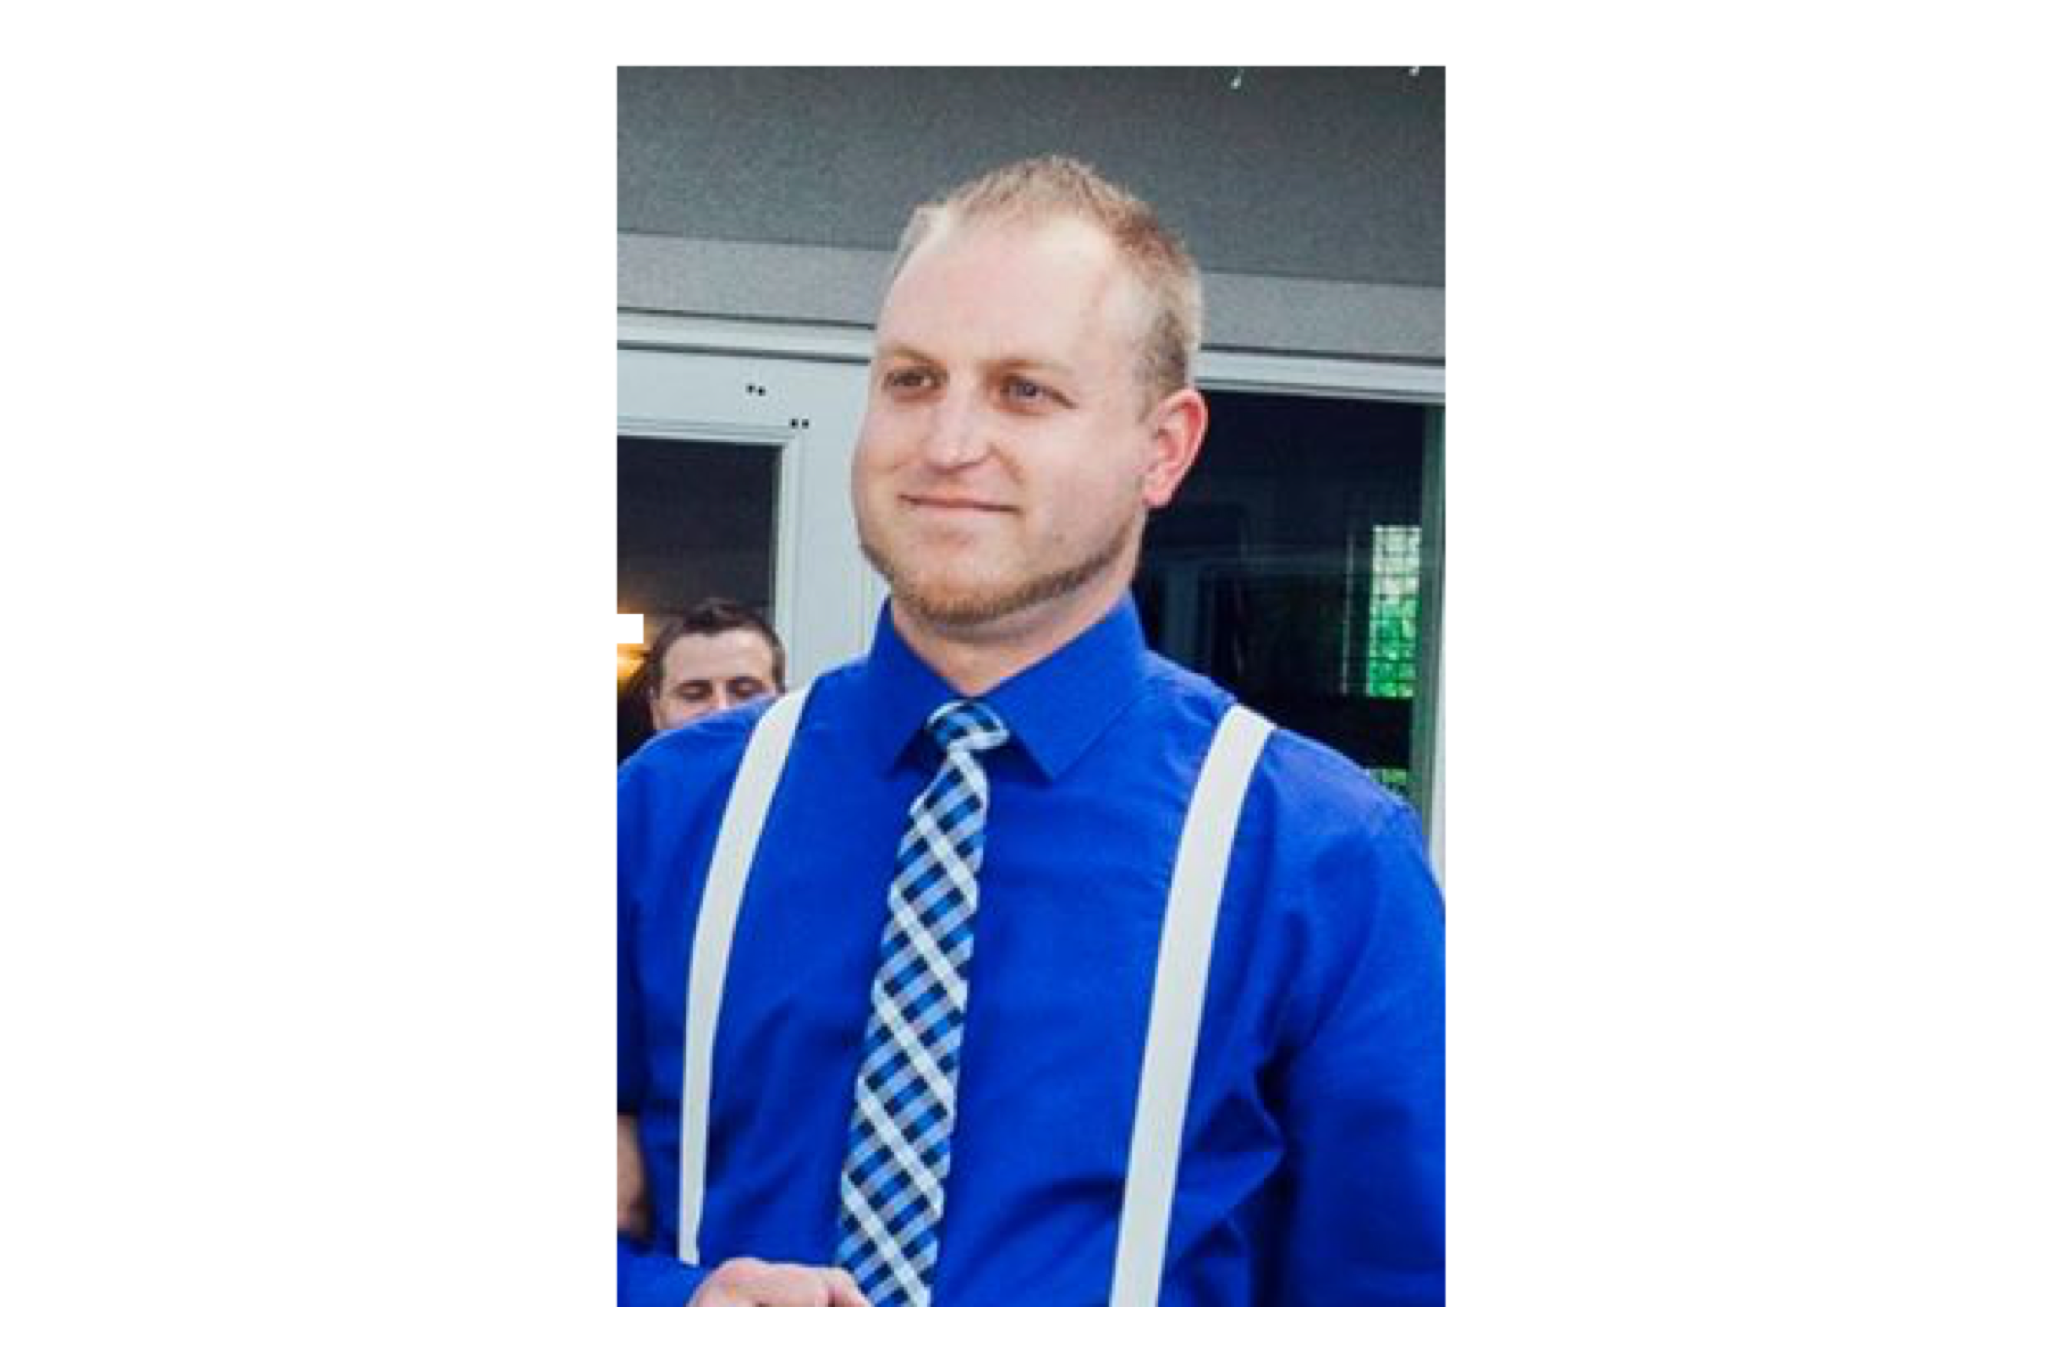
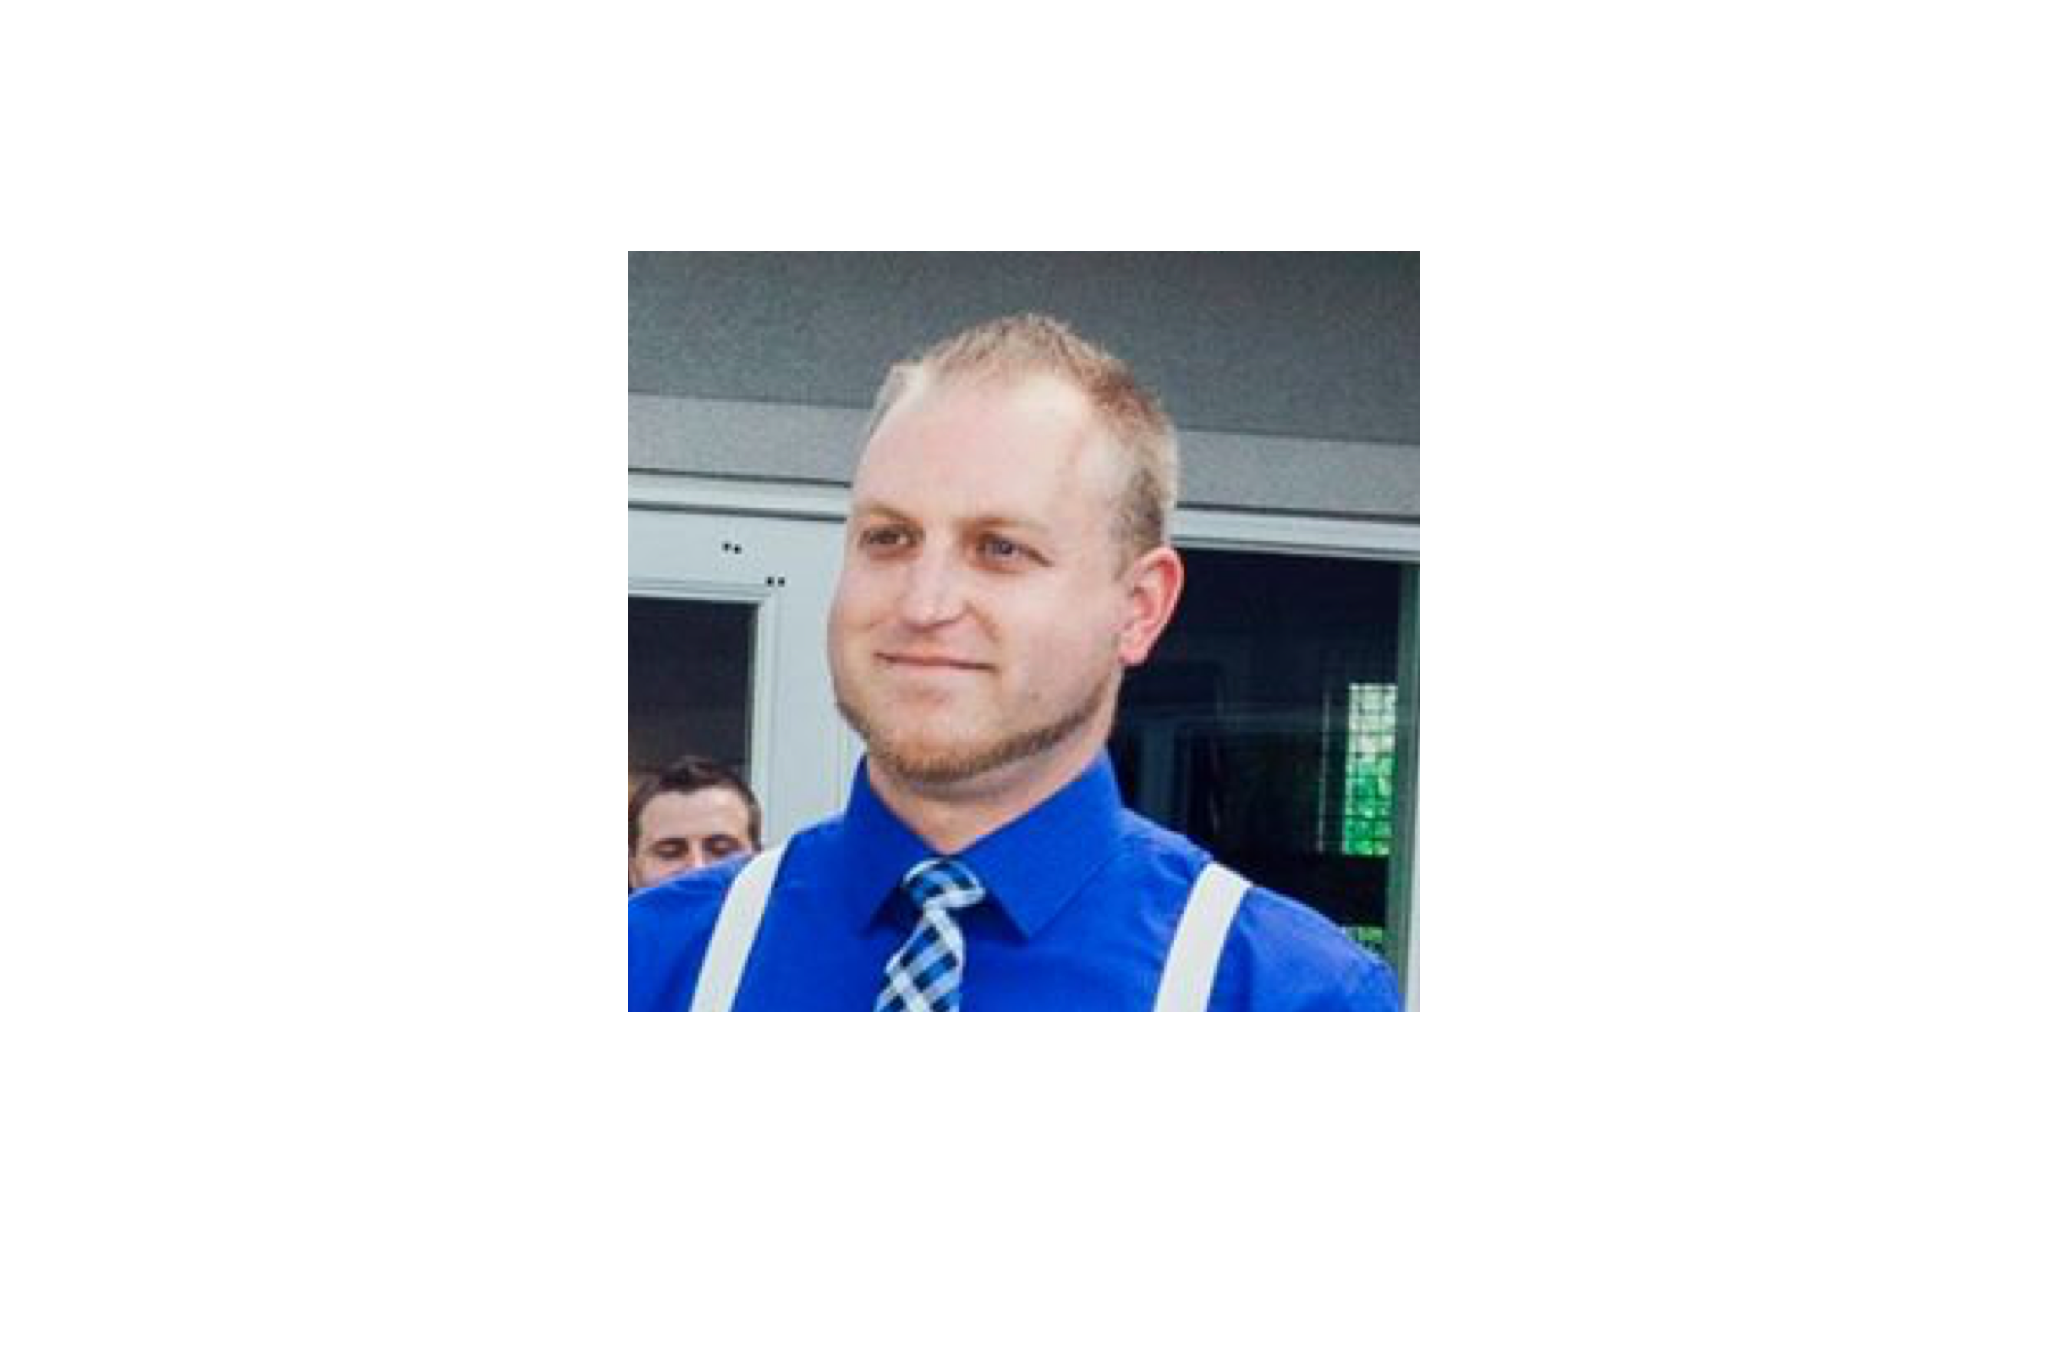
created build and deployed on firebase, styled footer, removed image until responsiveness is fixed

diff --git a/my-portfolio/src/components/Filter.js b/my-portfolio/src/components/Filter.js
@@ -1,5 +1,6 @@
 import React, { Component } from 'react';
 import store from '../store';
+import { Link } from 'react-router-dom';
 
 
 
@@ -16,24 +17,24 @@ class Filter extends Component {
     render() {
         return (
             <div className="ui secondary pointing menu filter">
-                <a className="item" onClick={this.handleClick}>
+                <Link to="" className="item" onClick={this.handleClick}>
                     All
-                </a>
-                <a className="item" onClick={this.handleClick}>
+                </Link>
+                <Link to="" className="item" onClick={this.handleClick}>
                     HTML
-                </a>
-                <a className="item" onClick={this.handleClick}>
+                </Link>
+                <Link to="" className="item" onClick={this.handleClick}>
                     JavaScript
-                </a>
-                <a className="item" onClick={this.handleClick}>
+                </Link>
+                <Link to="" className="item" onClick={this.handleClick}>
                     NodeJS
-                </a>
-                <a className="item" onClick={this.handleClick}>
+                </Link>
+                <Link to="" className="item" onClick={this.handleClick}>
                     ReactJS
-                </a>
-                <a className="item" onClick={this.handleClick}>
+                </Link>
+                <Link to="" className="item" onClick={this.handleClick}>
                     Angular
-                </a>
+                </Link>
             </div>
         );
     }

diff --git a/my-portfolio/src/components/Contact.js b/my-portfolio/src/components/Contact.js
@@ -1,5 +1,4 @@
 import React, { Component } from 'react';
-import Footer from './Footer';
 
 class Contact extends Component {
     render() {
@@ -9,11 +8,10 @@ class Contact extends Component {
                 can reach me at any of the below sources...
                 </p>
                 <h3>Email</h3>
-                <a style={{display: "flex", flexDirection: "column", alignItems: "center"}} href="https://www.owen.steven.d@gmail.com">
+                <div style={{display: "flex", flexDirection: "column", alignItems: "center"}} href="">
                     <i style={{fontSize: "25px"}} className="google icon"/>
                     <span>owen.steven.d@gmail.com</span>
-                    <span>Click Here!</span>
-                </a>
+                </div>
                 <h3>LinkedIn</h3>
                 <a style={{display: "flex", flexDirection: "column", alignItems: "center"}} href="https://www.linkedin.com/in/steven-d-owen">
                     <i style={{fontSize: "25px"}} className="linkedin icon"/>
@@ -26,7 +24,6 @@ class Contact extends Component {
                     <span>https://github.com/stevendowen</span>
                     <span>Click Here!</span>
                 </a>
-                <Footer />
             </div>
         );
     }

diff --git a/my-portfolio/src/css/App.css b/my-portfolio/src/css/App.css
@@ -1,11 +1,5 @@
 html, body {
-    height: 100%;
-    position: relative;
-}
-
-#footer {
-    position: absolute;
-    bottom: -50%;
+    height: 0;
 }
 
 .ui.secondary.pointing.menu {
@@ -82,13 +76,18 @@ p {
     display: flex;
     justify-content: center;
     background-color: #E2E2E2;
-    width: 25%;
+    width: 30%;
     border-radius: 5px;
-    margin-bottom: 5%;
+    margin-bottom: 10%;
+}
+
+.container {
+    display: flex;
+    justify-content: center;
 }
 
 img {
-    width: 450px;
+    width: 700px;
 }
 
 .contactBox {
@@ -122,7 +121,10 @@ and (-webkit-min-device-pixel-ratio: 3) {
         font-size: 10px;
     }
     .imgBox {
-        width: 60%;
+        width: 90%;
+    }
+    img {
+        width: 100px;
     }
 }
 
@@ -139,7 +141,10 @@ and (orientation: portrait) {
         font-size: 10px;
     }
     .imgBox {
-        width: 60%;
+        width: 90%;
+    }
+    img {
+        width: 100px;
     }
 }
 
@@ -156,6 +161,9 @@ and (orientation: landscape) {
         font-size: 10px;
     }
     .imgBox {
-        width: 60%;
+        width: 90%;
+    }
+    img {
+        width: 100px;
     }
 }

diff --git a/my-portfolio/src/components/About.js b/my-portfolio/src/components/About.js
@@ -1,15 +1,15 @@
 import React, { Component } from 'react';
-import Me from '../images/me.png';
-import Footer from './Footer';
+// import Me from '../images/me.png';
+
 
 class About extends Component {
     render () {
         return (
             <div className="aboutBox">
                 <h1 className="name about">I'm Steven Owen</h1>
-                <div className="imgBox">
-                    <img src={Me} />
-                </div>
+                {/* <div className="imgBox">
+                    <img src={Me} alt="Steven Owen"/>
+                </div> */}
                 <p> 
                     I am a highly motivated Web Developer pursuing opportunity to further my career.
                     I am a recent graduate from Mountainland Tech College that was asked by start-up 
@@ -18,7 +18,6 @@ class About extends Component {
                     Associate Degree program and am committed to maintaining cutting edge technical skills 
                     and up-to-date industry knowledge.
                 </p>
-                <Footer />
             </div>
         );
     }

diff --git a/my-portfolio/src/components/Footer.js b/my-portfolio/src/components/Footer.js
@@ -2,7 +2,7 @@ import React from 'react';
 
 const Footer = () => {
     return (
-        <div id="footer" className="ui secondary bottom fixed menu">
+        <div className="ui secondary menu">
             <div style={{fontSize: "10px"}} className="right item">
                 <span style={{width: "100px"}}>Powered by Me using React, Redux, and Firestore</span>
             </div>

diff --git a/my-portfolio/src/components/AppList.js b/my-portfolio/src/components/AppList.js
@@ -10,7 +10,6 @@ class AppList extends Component {
     renderApps () {
         let apps = store.getState().apps;
         let filter = store.getState().filter;
-        console.log(filter);
 
         if(filter !== 'All') {
             apps = apps.filter(a => {
